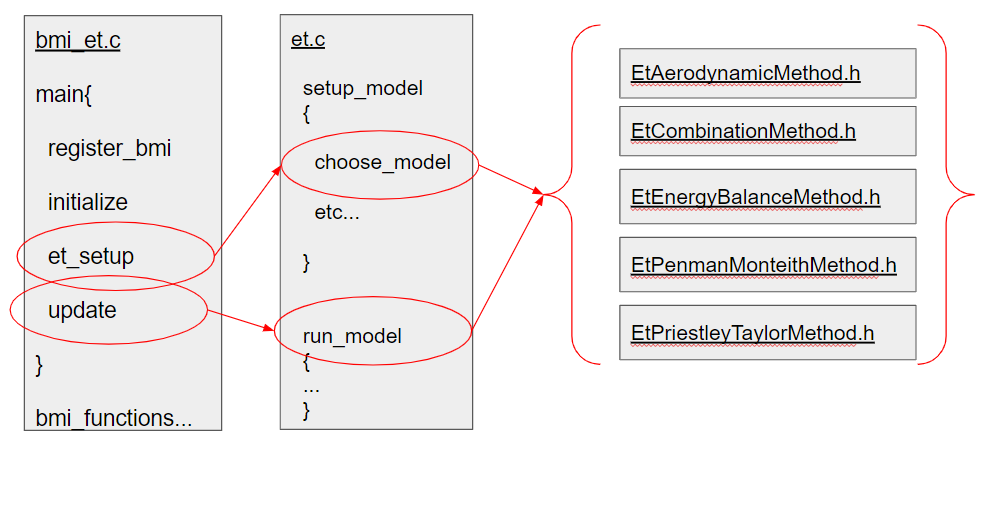
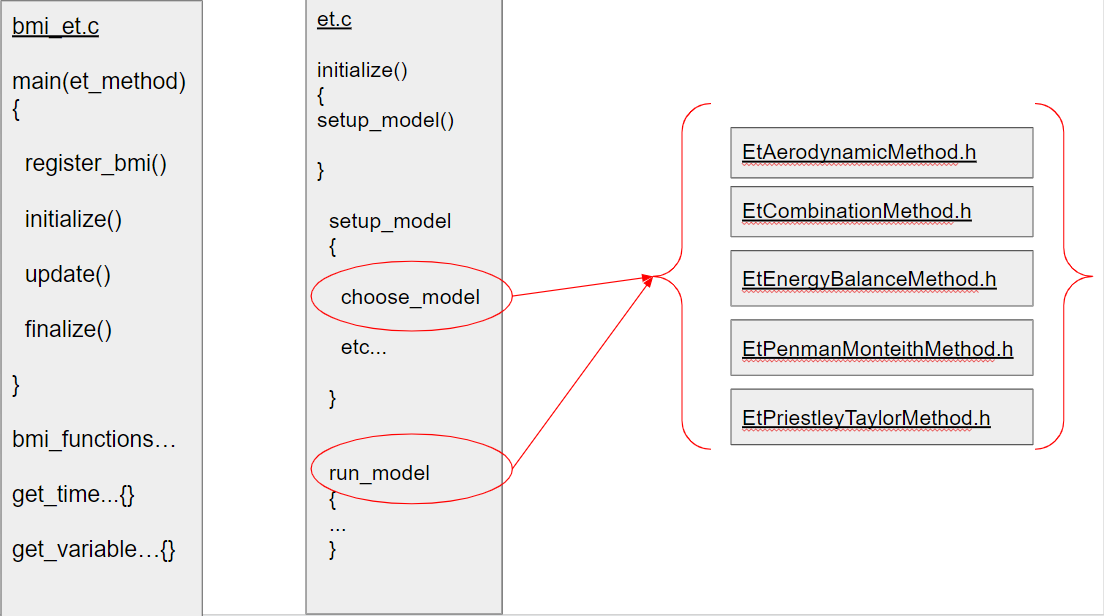
cleanup setup initialize

diff --git a/src/et.c b/src/et.c
@@ -26,12 +26,6 @@ extern void free_et_model(et_model *model) {
 extern int run(et_model* model)
 
 {
-  if(model->et_options.use_energy_balance_method ==TRUE)   printf("energy balance method:\n");
-  if(model->et_options.use_aerodynamic_method ==TRUE)      printf("aerodynamic method:\n");
-  if(model->et_options.use_combination_method ==TRUE)      printf("combination method:\n");
-  if(model->et_options.use_priestley_taylor_method ==TRUE) printf("Priestley-Taylor method:\n");
-  if(model->et_options.use_penman_monteith_method ==TRUE)  printf("Penman Monteith method:\n");
-  
   // populate the evapotranspiration forcing data structure:
   //---------------------------------------------------------------------------------------------------------------
   model->et_forcing.air_temperature_C             = (double)model->aorc.air_temperature_2m_K-TK;  // gotta convert it to C
@@ -105,12 +99,15 @@ extern int run(et_model* model)
 
 void et_setup(et_model* model, int et_method_option)
 {
-//  double saturation_vapor_pressure_Pa;
-//  double actual_vapor_pressure_Pa;
 
-  //###################################################################################################
-  // THE VALUE OF THESE FLAGS DETERMINE HOW THIS CODE BEHAVES.  CYCLE THROUGH THESE FOR THE UNIT TEST.
-  //###################################################################################################
+  //##########################################################
+  // TODO: ALL OPTIONS READ IN FROM CONFIGURATION FILE.
+  // TODO: READ IN FORCINGS FROM ASCII FILE.
+  //##########################################################
+
+  //##########################################################
+  // THE VALUE OF THESE FLAGS DETERMINE HOW THIS CODE BEHAVES.
+  //##########################################################
   model->et_method = et_method_option;
   model->et_options.use_energy_balance_method   = FALSE;
   model->et_options.use_aerodynamic_method      = FALSE;
@@ -218,6 +215,12 @@ void et_setup(et_model* model, int et_method_option)
     model->surf_rad_forcing.day_of_year                  =  208;    // THESE VALUES ARE FOR THE UNIT TEST
     model->surf_rad_forcing.zulu_time                  =  20.567; // THESE VALUES ARE FOR THE UNIT TEST
 
+    if(model->et_options.use_energy_balance_method ==TRUE)   printf("energy balance method:\n");
+    if(model->et_options.use_aerodynamic_method ==TRUE)      printf("aerodynamic method:\n");
+    if(model->et_options.use_combination_method ==TRUE)      printf("combination method:\n");
+    if(model->et_options.use_priestley_taylor_method ==TRUE) printf("Priestley-Taylor method:\n");
+    if(model->et_options.use_penman_monteith_method ==TRUE)  printf("Penman Monteith method:\n");
+  
     // UNIT TEST RESULTS
     // CALCULATED SOLAR FLUXES
     // at time:     20.56700000 UTC

diff --git a/src/bmi_et.c b/src/bmi_et.c
@@ -21,13 +21,9 @@ main(int argc, const char *argv[])
   register_bmi_et(model);
 
   int et_method_int = 1*atoi(argv[1]);
+  const char *cfg_file = "/glade/work/jframe/bmi_et/bmi_et_config.txt";
+  model->initialize(model, et_method_int, cfg_file);
   
-  model->initialize(model);
-  
-  read_init_config("/glade/work/jframe/bmi_et/bmi_et_config.txt", model->data);
-  
-  et_setup(model->data, et_method_int);
-
   model->update(model);
   
   model->finalize(model);
@@ -36,10 +32,12 @@ main(int argc, const char *argv[])
 }
 
 static int 
-Initialize (Bmi *self)
+Initialize (Bmi *self, int et_method_int, const char *cfg_file)
 {
     et_model *et;
     et = (et_model *) self->data;
+    read_init_config(cfg_file, self->data);
+    et_setup(self->data, et_method_int);
     return BMI_SUCCESS;
 }
 

diff --git a/include/bmi.h b/include/bmi.h
@@ -48,7 +48,7 @@ typedef struct Bmi {
     void *data;
 
     /* Initialize, run, finalize (IRF) */
-    int (*initialize)(struct Bmi *self);
+    int (*initialize)(struct Bmi *self, int et_method_int, const char *config_file);
 
     int (*update)(struct Bmi *self);
 
